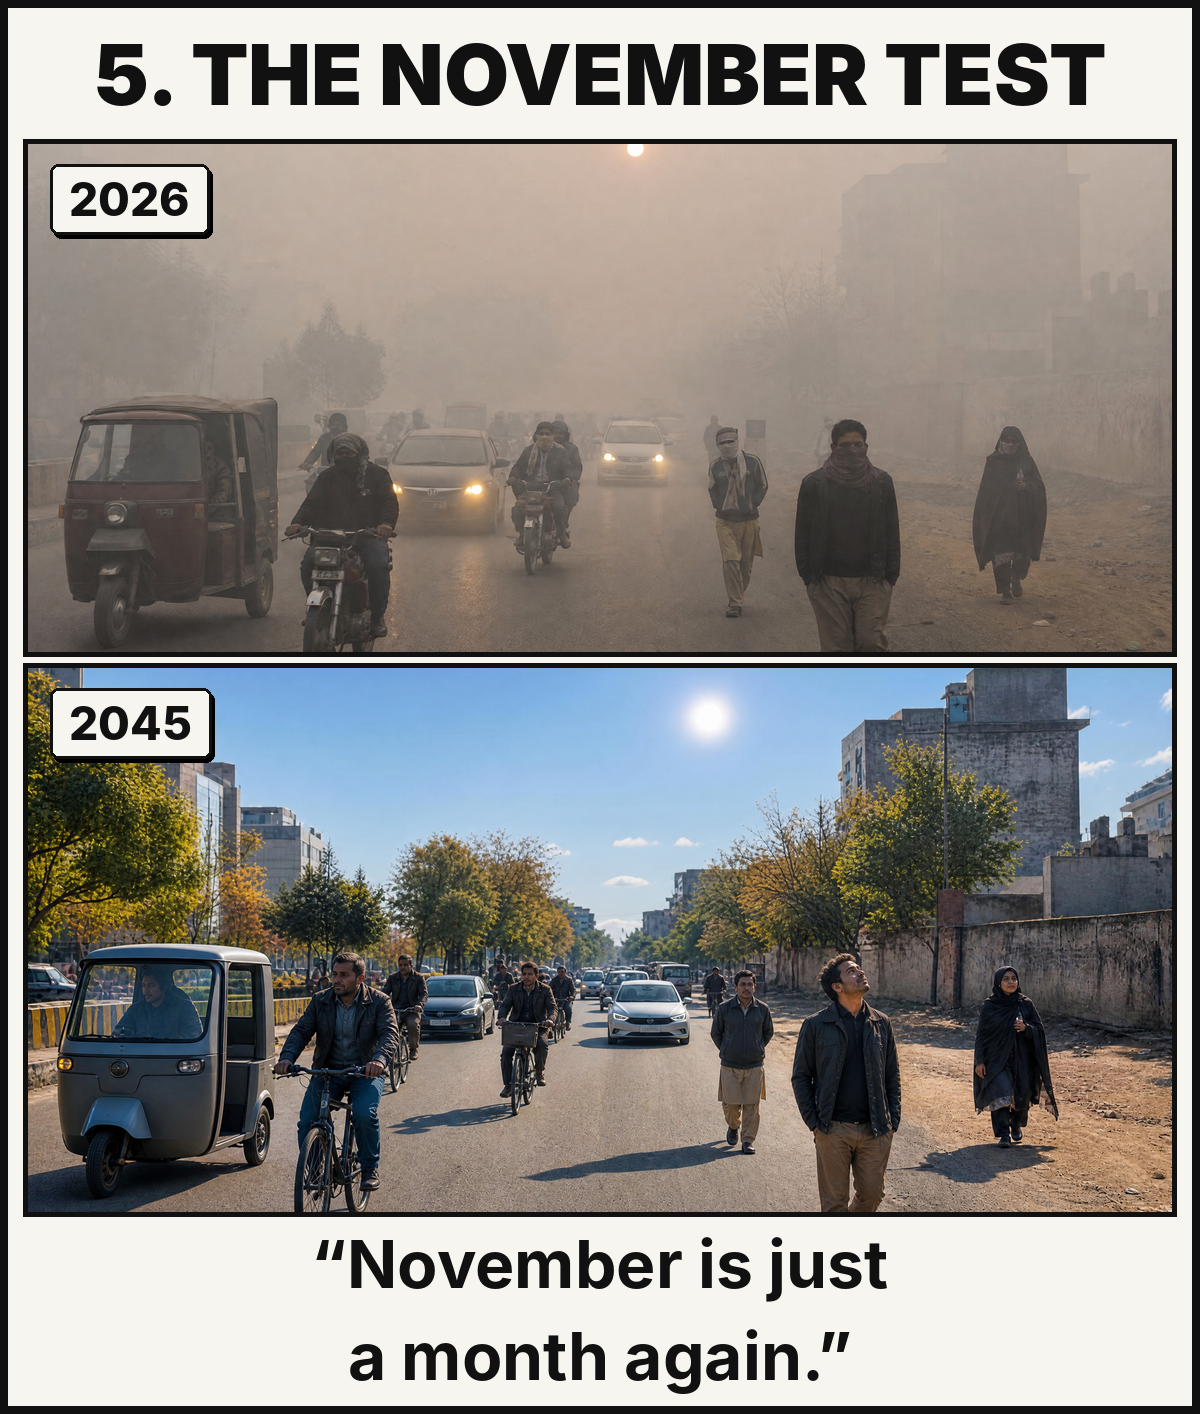
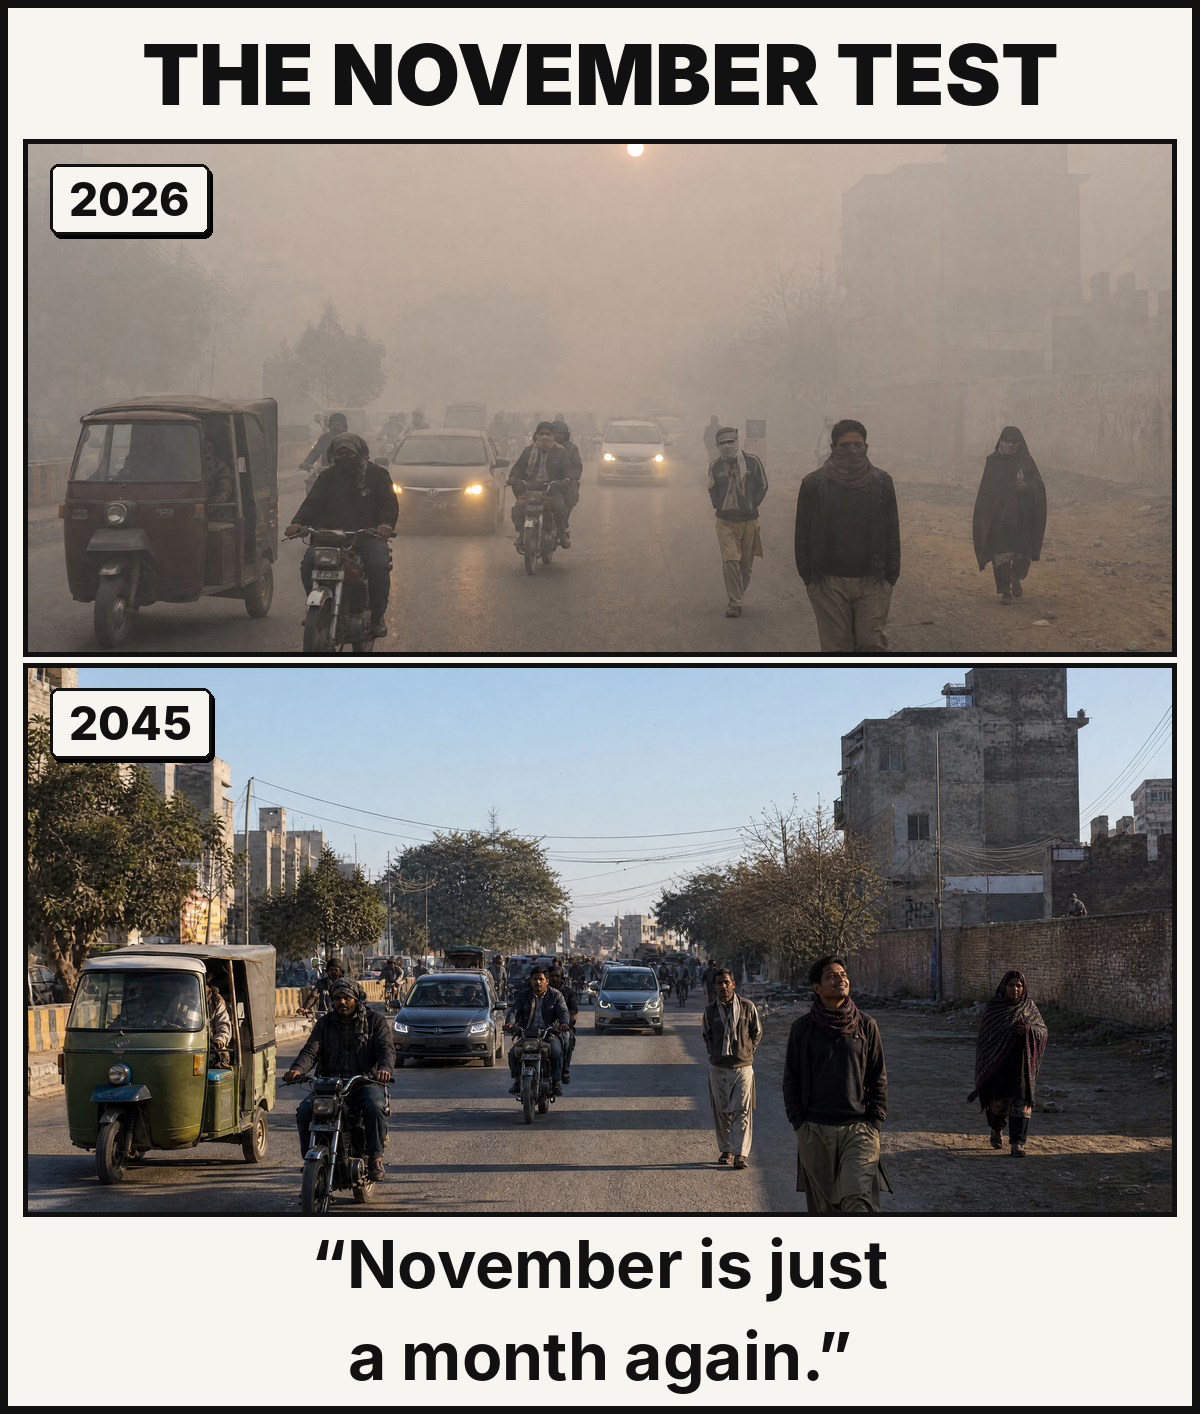
November Test: unnumbered title and a more photographic 2045 panel
- Title is now "THE NOVEMBER TEST", without the number
- New 2045 panel, again edited from the 2026 smog photo but shot like an
  unedited photojournalist frame: muted natural colour, low winter light,
  overhead wires, worn plaster, dusty roadside; same street and people

Claude-Session: https://claude.ai/code/session_01Gw2TNCA3kZvybTQmQHep3g

Changed region(s): [[0.0, 0.4668, 0.9867, 0.8713], [0.0617, 0.0311, 0.925, 0.0934]]

diff --git a/memes/foresight-tests/source/make_tests.py b/memes/foresight-tests/source/make_tests.py
@@ -9,7 +9,7 @@ import composite as C
 MEMES = [
     dict(name="04_load_shedding_test", title="4. THE LOAD-SHEDDING TEST", a="raw/power_2026.png", b="raw/power_2040.png",
          ya="2026", yb="2040", quote=["“Ammi, what was", "load-shedding?”"], ay=(0.5, 0.5)),
-    dict(name="05_november_test", title="5. THE NOVEMBER TEST", a="raw/smog_2026.png", b="raw/smog_2045.png",
+    dict(name="05_november_test", title="THE NOVEMBER TEST", a="raw/smog_2026.png", b="raw/smog_2045_v2.png",
          ya="2026", yb="2045", quote=["“November is just", "a month again.”"], ay=(0.55, 0.55)),
     dict(name="06_tooth_fairy_test", title="6. THE TOOTH FAIRY TEST", a="raw/tooth_2026.png", b="raw/tooth_2050.png",
          ya="2026", yb="2050", quote=["“Wait... they DRILLED", "holes in your teeth?”"], ay=(0.45, 0.45)),

diff --git a/memes/foresight-tests/README.md b/memes/foresight-tests/README.md
@@ -1,6 +1,6 @@
 # THE ___ TEST: five new memes, plus captions for three GIFs
 
-These five memes continue "3. THE TURTLE TEST" in the same layout: a header, a 2026 panel, a future panel and a quote. Each panel is a Higgsfield GPT Image 2 still (2 credits each, 20 credits in all). Each future panel was made as an edit of its 2026 panel, so the place, the people and the camera angle carry across. The compositor is the Turtle Test's own (`good-food-no-dead-ends/memes/composite.py`), driven by `source/make_tests.py`.
+These five memes continue "3. THE TURTLE TEST" in the same layout (THE NOVEMBER TEST carries no number, so it can stand alone): a header, a 2026 panel, a future panel and a quote. Each panel is a Higgsfield GPT Image 2 still (2 credits each, 20 credits in all). Each future panel was made as an edit of its 2026 panel, so the place, the people and the camera angle carry across. The compositor is the Turtle Test's own (`good-food-no-dead-ends/memes/composite.py`), driven by `source/make_tests.py`.
 
 Every caption ends with #xhopememeprize, and every number is sourced at the bottom of this file.
 
@@ -14,7 +14,7 @@ Every caption ends with #xhopememeprize, and every number is sourced at the bott
 > Load-shedding won't end with a speech. It'll end one rooftop at a time.
 > #xhopememeprize #solar #Pakistan #loadshedding #energy
 
-## 5. THE NOVEMBER TEST (`05_november_test`)
+## THE NOVEMBER TEST (`05_november_test`)
 **Quote:** "November is just a month again."
 
 **Caption:**
